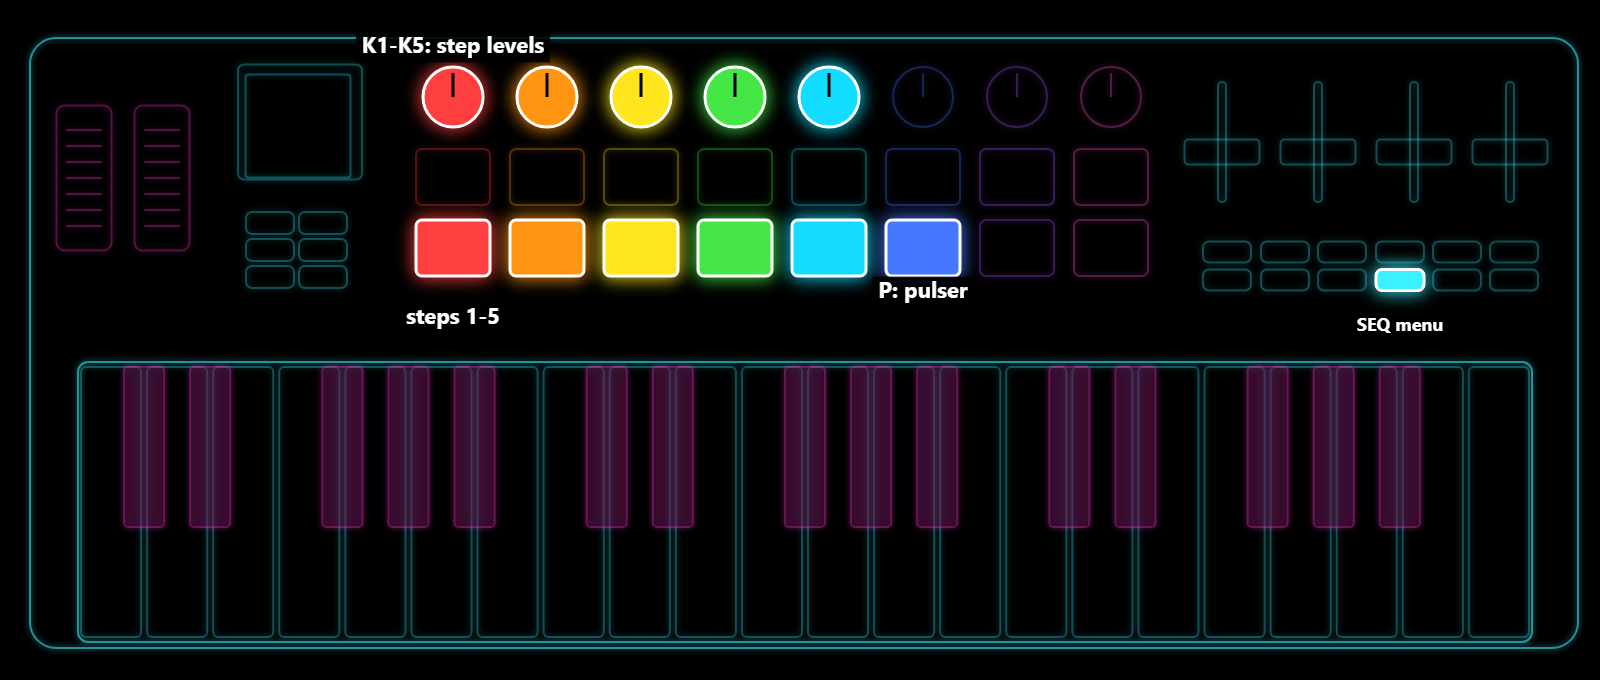
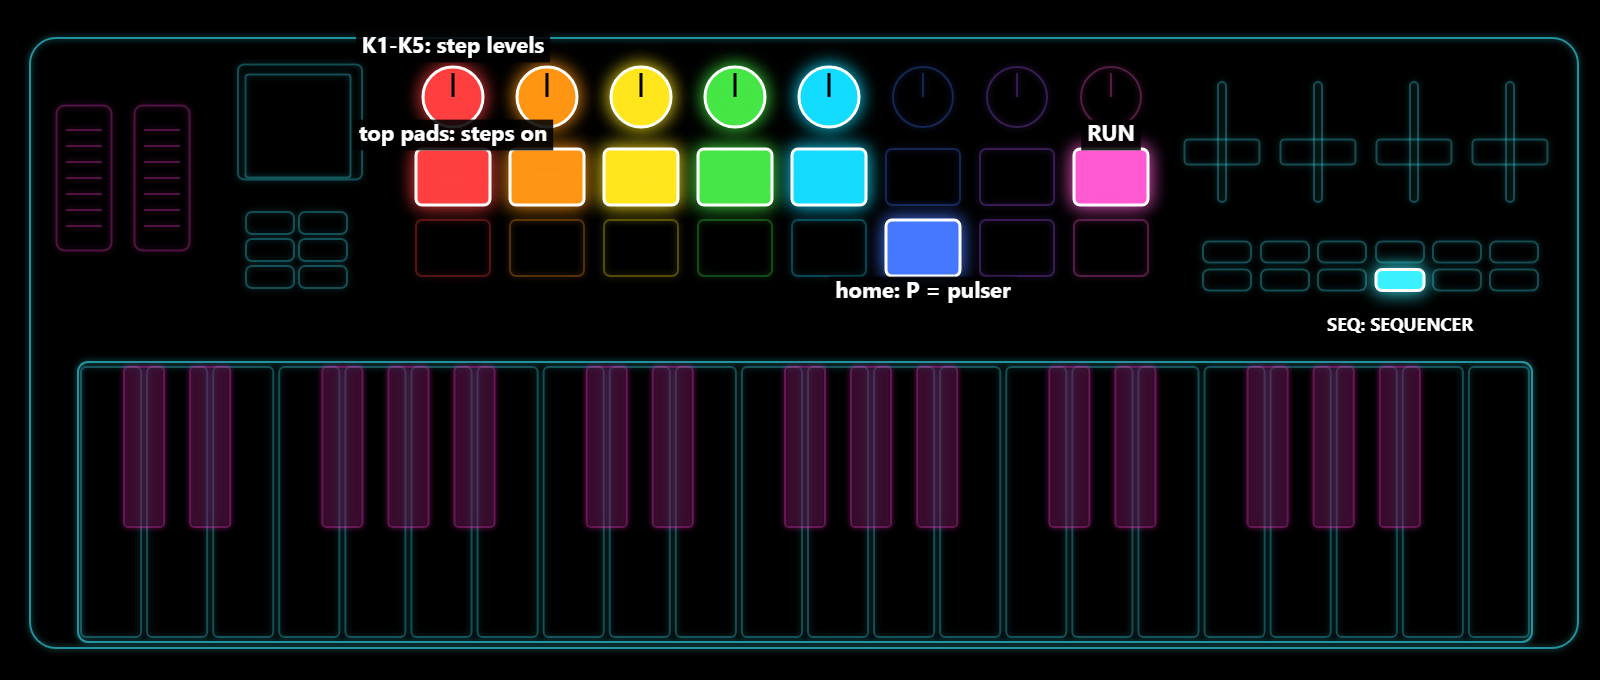
Docs: guide for one logic, control map from the menu table, new screenshots

Changed region(s): [[0.2188, 0.1544, 0.625, 0.4941], [0.6562, 0.1853, 0.75, 0.3397], [0.8125, 0.4632, 0.9375, 0.4941]]

diff --git a/tools/panel.html b/tools/panel.html
@@ -35,18 +35,20 @@ add("keys", "keys", 805, 602, 1454, 280, CY, "KEYS");
 
 /* the lessons: the controls lit, and what to call them */
 const L = {
-  1: { patch: "PATCH: PRESETS", p1: "pads: a preset", kb: "KNOB BANK: home", screen: "" },
+  1: { kb: "KNOB BANK: PRESETS", p1: "pads: a preset", left: "< > theme", right: "", patch: "PATCH: home", screen: "" },
   2: { k1: "K1-K8: pitch", k2: "", k3: "", k4: "", k5: "", k6: "", k7: "", k8: "", p1: "top pads: wake / sleep", p2: "", p3: "",
        p4: "", p5: "", p6: "", p7: "", p8: "", screen: "" },
-  3: { f1: "F1 CUTOFF", f2: "F2 RESO", f3: "F3 LFO RATE", f4: "F4 LFO DEPTH", fb: "FADER BANK", mod: "MOD", pitch: "PITCH" },
-  4: { para: "VOICE", chord: "ENV", repeat: "MOD", globe: "MIX", scale: "TUNING", bt: "LFO", fx: "FX", arp: "KEYS", seq: "SEQ",
-       left: "< > pages", right: "", kb: "home", k1: "K1-K8: the column's value", k2: "", k3: "", k4: "", k5: "", k6: "", k7: "", k8: "" },
+  3: { f1: "F1 CUTOFF", f2: "F2 RESONANCE", f3: "F3 MOVEMENT", f4: "F4 SPACE", fb: "FADER BANK: FX on / off", mod: "MOD",
+       pitch: "PITCH" },
+  4: { para: "SOUND", chord: "ENVELOPE", repeat: "MOTION", globe: "MIX", scale: "TUNING", fx: "EFFECTS", arp: "KEYS",
+       seq: "SEQUENCER", left: "< > pages", right: "", patch: "PATCH: home", k1: "K1-K8: column 1-8", k2: "", k3: "", k4: "",
+       k5: "", k6: "", k7: "", k8: "", p1: "pads: two choices", p9: "" },
   5: { play: "SEQ PLAY: FREE-PLAY", rec: "SEQ REC: HOLD", keys: "keys wake the drones", octdn: "OCT - +", octup: "" },
-  6: { p9: "steps 1-5", p10: "", p11: "", p12: "", p13: "", p14: "P: pulser", seq: "SEQ menu", k1: "K1-K5: step levels", k2: "", k3: "", k4: "", k5: "" },
-  7: { p16: "C: CHAOS", p15: "H: HOLD ALL", chord: "ENV: GATE = CASCADE", seq: "SEQ: MOTION", p1: "top pads", p2: "" },
-  8: { patch: "PATCH: PRESETS (held: SETUP)", left: "< > theme", right: "", k1: "K1-K8: slot", k2: "", k3: "", k4: "", k5: "", k6: "", k7: "",
-       k8: "", p1: "pads: a preset", p2: "", p3: "", p4: "", p5: "", p6: "", p7: "", p8: "", p9: "", p10: "", p11: "", p12: "", p13: "",
-       p14: "", p15: "", p16: "" },
+  6: { seq: "SEQ: SEQUENCER", k1: "K1-K5: step levels", k2: "", k3: "", k4: "", k5: "", p1: "top pads: steps on", p2: "",
+       p3: "", p4: "", p5: "", p8: "RUN", p14: "home: P = pulser" },
+  7: { p16: "C: CHAOS", p15: "H: HOLD ALL", chord: "ENVELOPE: GATE = CASCADE", seq: "SEQ page 2: LOOP", p1: "top pads", p2: "" },
+  8: { kb: "KNOB BANK: PRESETS", left: "> to MINE", right: "", p1: "MINE: hold 1 s = save", p2: "", p3: "", p4: "", p5: "",
+       p6: "", p7: "", p8: "", p9: "", p10: "", p11: "", p12: "", p13: "", p14: "", p15: "red: cancel", p16: "green: OK" },
 };
 const q = new URLSearchParams(location.search).get("l") || "map";
 const MAP = q === "map", HL = MAP ? {} : L[q] || {};

diff --git a/docs/GUIDE.md b/docs/GUIDE.md
@@ -2,9 +2,13 @@
 
 Eight lessons, about five minutes each. Do the step and listen.
 
-Lost at any point? Tap **KNOB BANK** to go back to the creatures. Hold **KNOB BANK** for HELP.
+Two buttons are always there for you: **KNOB BANK** shows the presets, **PATCH** takes you home to the
+creatures. Hold **KNOB BANK** for HELP.
 
 ![The controls](img/panel-map.png)
+
+Every menu works the same way: its button opens it at page 1, **< >** turn the pages, knob **K1-K8** sets
+column 1-8, and a setting with two choices sits on the column's pads. The full map: [CONTROLS.md](CONTROLS.md).
 
 ---
 
@@ -14,12 +18,11 @@ Lost at any point? Tap **KNOB BANK** to go back to the creatures. Hold **KNOB BA
 
 <img src="img/screen-presets-1.png" width="240" alt="PRESETS screen">
 
-1. Switch on. You see the boot scene, then **PRESETS**.
+1. Switch on. After the boot scene you see **PRESETS**.
 2. Tap any **pad**. You hear that preset straight away. The pad you are hearing is white.
-3. Tap a few other pads.
-4. Press **<** or **>** to change the theme: DRONES, ABRAXAS, NATURE, SCI-FI, ORGAN, PULSE.
-5. Tap **KNOB BANK**. You see the creatures. The awake ones are singing.
-6. **PATCH** takes you back to PRESETS.
+3. Press **<** or **>** to change the theme: DRONES, ABRAXAS, NATURE, SCI-FI, ORGAN, PULSE, MINE.
+4. Press **PATCH**. You see the creatures. The awake ones are singing.
+5. Press **KNOB BANK** to come back to the presets.
 
 ## 2. Tuning the creatures
 
@@ -27,25 +30,25 @@ Lost at any point? Tap **KNOB BANK** to go back to the creatures. Hold **KNOB BA
 
 <img src="img/screen-home-pitch.png" width="240" alt="Home screen, a voice retuned">
 
-1. On the creatures screen, each column is one drone: knob above, creature and note in the middle, pads below.
+1. On the creatures screen, each column is one drone: knob above, creature and note in the middle, pad below.
 2. Tap **top pad 3**. Creature 3 wakes up and sings.
 3. Tap it again. It falls asleep.
 4. **Hold** top pad 3 instead. It sings only while you hold it.
 5. Turn **K1**. Drone 1 moves up or down the scale. The note under creature 1 changes.
-6. Turn the other knobs. Each one tunes its own column.
+6. On the creatures screen, **< >** step to the previous or next preset.
 
-## 3. Faders and the mod wheel
+## 3. Faders and wheels
 
 ![Lesson 3 controls](img/panel-3.png)
 
 <img src="img/screen-fader.png" width="240" alt="A fader's value">
 
 1. Move **F1** (CUTOFF) slowly down. The sound gets darker. Its value shows big on the screen.
-2. Raise **F2** (RESO). The filter starts to sing.
-3. Raise **F4** (LFO DEPTH), then move **F3** (LFO RATE). The filter sweeps on its own.
-4. Push the **MOD** wheel up. The filter closes and the resonance rises.
-5. Move the **PITCH** wheel. Everything bends, then springs back.
-6. Press **FADER BANK**. Now the faders are FX L, FX R, SPACE and TAPE. Press it again for the filter.
+2. Raise **F2** (RESONANCE). The filter starts to sing.
+3. Raise **F3** (MOVEMENT). The filter sweeps on its own.
+4. Raise **F4** (SPACE). More reverb.
+5. Push the **MOD** wheel up. The filter closes. Move the **PITCH** wheel: everything bends, then springs back.
+6. Press **FADER BANK**. The effects switch off. Press it again: on.
 
 The faders always win: where a fader stands is what you hear, even after loading a preset.
 
@@ -53,15 +56,16 @@ The faders always win: where a fader stands is what you hear, even after loading
 
 ![Lesson 4 controls](img/panel-4.png)
 
-<img src="img/screen-menu-env-1.png" width="240" alt="ENV menu, ATTACK page">
+<img src="img/screen-menu-envelope-1.png" width="240" alt="ENVELOPE menu, ATTACK page">
 
-1. Press **CHORD**. You see ENV, page ATTACK, with one bar per drone.
-2. Turn **K1**. Drone 1's attack changes. Every knob sets the bar under it.
-3. Press **>**. Next page: RELEASE. Press **<** to go back.
-4. Where a setting has only two choices, the column's **pads** set it: top pad = one, bottom pad = the other.
-5. Press **CHORD** again (or KNOB BANK) to go home.
-6. Try the other menus: **PARA** VOICE, **NOTE REPEAT** MOD, **GLOBE** MIX, **SCALE** TUNING, **BT** LFO,
-   **FX** FX, **ARP** KEYS, **SEQ** SEQ.
+1. Press **CHORD**. You see ENVELOPE 1/6, page ATTACK, one bar per drone.
+2. Turn **K1**. Drone 1's attack changes.
+3. Press **>**. Page 2/6: RELEASE. Press **<** to go back.
+4. Press **CHORD** again, or **PATCH**, to go home.
+5. Try the other menus: **PARA** SOUND, **NOTE REPEAT** MOTION, **SCALE** TUNING, **FX** EFFECTS,
+   **SEQ** SEQUENCER, **ARP** KEYS, **GLOBE** MIX.
+6. In **PARA**, page VOICE 1: K1-K5 tune the five oscillators. The top pads switch each one on or off,
+   the bottom pads switch its modulation.
 
 ## 5. Free-play and hold
 
@@ -81,42 +85,42 @@ The faders always win: where a fader stands is what you hear, even after loading
 
 ![Lesson 6 controls](img/panel-6.png)
 
-<img src="img/screen-menu-seq-1.png" width="240" alt="SEQ menu">
+<img src="img/screen-menu-sequencer-1.png" width="240" alt="SEQUENCER menu">
 
-1. Open PRESETS, theme PULSE, and tap **MOTORIK**. It is already running.
-2. Tap **P** (bottom pad 6) in rhythm. The tempo follows your taps.
+1. Press **KNOB BANK**, go to the theme PULSE and tap **MOTORIK**. It is already running.
+2. Press **PATCH**. On the creatures screen, tap **P** (bottom pad 6) in rhythm. The tempo follows your taps.
 3. Hold **P**. The pulser stops. Tap it to start again.
-4. Tap the **bottom pads 1-5**. Each one switches a step on or off. The playing step is white.
-5. Press **SEQ**. Turn **K1-K5** to set the five step levels.
+4. Press **SEQ**. Turn **K1-K5** to set the five step levels.
+5. Tap the **top pads 1-5**. Each one switches a step on or off. The playing step is white.
+6. Pad 8 is RUN: top on, bottom off.
 
-## 7. Chaos, cascade, motion
+## 7. Chaos, cascade, loop
 
 ![Lesson 7 controls](img/panel-7.png)
 
 <img src="img/screen-chaos.png" width="240" alt="CHAOS">
 
-1. Tap **C** (bottom right). All classic drones get new notes, still inside the scale.
+1. On the creatures screen, tap **C** (bottom right). All classic drones get new notes, still in the scale.
 2. Hold **C** and tap **top pad 2**. Only drone 2 changes.
 3. Tap **H**. Everything that sounds now stays on. Tap **H** again: all off.
-4. Press **CHORD**, then **>** to the GATE page. Turn K2 and K3 to CASCADE.
-   Go home and wake drone 1. Drones 2 and 3 follow, one after the other.
-5. Press **SEQ**, then **>** to MOTION. Turn **K1** right: it records. Tap pads, turn knobs.
-   Turn K1 right again: it loops what you did. Again: it stops.
+4. Press **CHORD**, then **>** to GATE. Turn K2 and K3 to CASCADE. Go home and wake drone 1.
+   Drones 2 and 3 follow, one after the other.
+5. Press **SEQ**, then **>** to LOOP. Tap **top pad 1**: it records. Go home, tap pads, turn knobs.
+   Back in SEQ, LOOP: top pad 1 again plays it in a loop, again stops it.
 
-## 8. Presets and scenes
+## 8. Your own presets
 
 ![Lesson 8 controls](img/panel-8.png)
 
-<img src="img/screen-menu-presets-3.png" width="240" alt="PRESETS, SAVE page">
+<img src="img/screen-presets-7.png" width="240" alt="PRESETS, theme MINE">
 
-1. Press **PATCH**. Tap pads to pick a sound. Use **<** **>** for the themes.
-2. Press **>** past the last theme (PULSE). You reach LOAD, then SAVE, then MORPH. One more **>** brings
-   you back to the first theme.
-3. **SAVE**: turn a slot's knob (K1-K8). An empty slot saves at once. A used slot asks first: green pad OK, red pad
-   cancel.
-4. **LOAD**: turn a slot's knob. That scene loads.
-5. **MORPH**: turn a slot's knob slowly. Your sound glides into that scene.
-6. Hold **PATCH** for SETUP: pad light, USB console, OUTPUT LINE or SPEAKER.
+1. Make a sound you like.
+2. Press **KNOB BANK**, then **<** or **>** until the theme **MINE**: 16 places for your sounds.
+3. **Hold** a dark pad for one second. Your sound is saved there.
+4. Hold a lit pad: the screen asks first. **Green** pad (bottom right) = replace, **red** = cancel.
+5. Tap a lit pad to load your sound.
+6. Hold **PATCH** for SETUP: pad light, USB console, output LINE or SPEAKER, master volume, analog drift,
+   width, tape.
 
 ---
 
@@ -124,12 +128,12 @@ The faders always win: where a fader stands is what you hear, even after loading
 
 | | | |
 |---|---|---|
-| ![](img/screen-home.png) home | ![](img/screen-presets-2.png) PRESETS | ![](img/screen-dialog-save.png) SAVE over a used slot |
-| ![](img/screen-menu-voice-1.png) VOICE: WAVE | ![](img/screen-menu-voice-2.png) VOICE 1 | ![](img/screen-menu-voice-4.png) VOICE 3 (noise) |
-| ![](img/screen-menu-voice-5.png) VOICE 4 (VCO) | ![](img/screen-menu-mod-7.png) MOD: DETUNE | ![](img/screen-menu-mix-1.png) MIX: VOLUME |
-| ![](img/screen-menu-fx-1.png) FX: FILTER | ![](img/screen-menu-fx-2.png) FX: L / R | ![](img/screen-menu-tuning-1.png) TUNING |
-| ![](img/screen-menu-lfo-1.png) LFO | ![](img/screen-menu-keys-1.png) KEYS | ![](img/screen-menu-setup-1.png) SETUP |
-| ![](img/screen-help-1.png) HELP: pads | ![](img/screen-help-3.png) HELP: buttons | ![](img/screen-help-6.png) HELP: faders |
+| ![](img/screen-home.png) home | ![](img/screen-presets-2.png) PRESETS | ![](img/screen-dialog-save.png) replace a saved one |
+| ![](img/screen-menu-sound-1.png) SOUND: WAVE | ![](img/screen-menu-sound-2.png) SOUND: VOICE 1 | ![](img/screen-menu-sound-4.png) SOUND: VOICE 3 (noise) |
+| ![](img/screen-menu-sound-5.png) SOUND: VOICE 4 (VCO) | ![](img/screen-menu-motion-1.png) MOTION: DETUNE | ![](img/screen-menu-mix-1.png) MIX: VOLUME |
+| ![](img/screen-menu-effects-1.png) EFFECTS | ![](img/screen-menu-effects-2.png) EFFECTS: FILTER | ![](img/screen-menu-tuning-1.png) TUNING |
+| ![](img/screen-menu-motion-8.png) MOTION: LFO | ![](img/screen-menu-keys-1.png) KEYS | ![](img/screen-menu-setup-1.png) SETUP |
+| ![](img/screen-help-1.png) HELP: pads | ![](img/screen-help-3.png) HELP: menus | ![](img/screen-help-6.png) HELP: faders |
 
 ## Update mode
 

diff --git a/docs/CONTROLS.md b/docs/CONTROLS.md
@@ -1,0 +1,48 @@
+# Makkuro37: control map
+
+Generated from the firmware's menu table (tools/docs_img.sh). On every page knob Ki sets column i; a value with two choices sits on the column's pads.
+
+| Button | Menu | Page | K1 | K2 | K3 | K4 | K5 | K6 | K7 | K8 |
+|---|---|---|---|---|---|---|---|---|---|---|
+| PARA | SOUND | WAVE | WAVE | WAVE | WAVE | WAVE | WAVE | WAVE | WAVE | WAVE |
+|  |  | VOICE 1 | TUNE 1 (pads: on, mod) | TUNE 2 (pads: on, mod) | TUNE 3 (pads: on, mod) | TUNE 4 (pads: on, mod) | TUNE 5 (pads: on, mod) | VOLT |  |  |
+|  |  | VOICE 2 | TUNE 1 (pads: on, mod) | TUNE 2 (pads: on, mod) | TUNE 3 (pads: on, mod) | TUNE 4 (pads: on, mod) | TUNE 5 (pads: on, mod) | VOLT |  |  |
+|  |  | VOICE 3 | PITCH | RANGE (pads) | RATE | RATE X (pads) | FM AMT | DIVIDER | MODE | NOISE |
+|  |  | VOICE 4 | WAVE | SHAPE | OCTAVE | TUNE | FM |  | SUB |  |
+|  |  | VOICE 5 | WAVE | SHAPE | OCTAVE | TUNE | FM | SYNC (pads) | SUB |  |
+|  |  | VOICE 6 | TUNE 1 (pads: on, mod) | TUNE 2 (pads: on, mod) | TUNE 3 (pads: on, mod) | TUNE 4 (pads: on, mod) | TUNE 5 (pads: on, mod) | VOLT |  |  |
+|  |  | VOICE 7 | TUNE 1 (pads: on, mod) | TUNE 2 (pads: on, mod) | TUNE 3 (pads: on, mod) | TUNE 4 (pads: on, mod) | TUNE 5 (pads: on, mod) | VOLT |  |  |
+|  |  | VOICE 8 | PITCH | RANGE (pads) | RATE | RATE X (pads) | FM AMT | DIVIDER | MODE | NOISE |
+| CHORD | ENVELOPE | ATTACK | ATTACK | ATTACK | ATTACK | ATTACK | ATTACK | ATTACK | ATTACK | ATTACK |
+|  |  | RELEASE | RELEASE | RELEASE | RELEASE | RELEASE | RELEASE | RELEASE | RELEASE | RELEASE |
+|  |  | GATE | GATE | GATE | GATE | GATE | GATE | GATE | GATE | GATE |
+|  |  | DECAY |  |  |  | DECAY | DECAY |  |  |  |
+|  |  | SUSTAIN |  |  |  | SUSTAIN | SUSTAIN |  |  |  |
+|  |  | VCO EG |  |  |  | EG | EG |  |  |  |
+| REPEAT | MOTION | DETUNE | DETUNE (pad: RATE) | DETUNE (pad: RATE) | DETUNE (pad: RATE) | DETUNE (pad: RATE) | DETUNE (pad: RATE) | DETUNE (pad: RATE) | DETUNE (pad: RATE) | DETUNE (pad: RATE) |
+|  |  | MOD SRC | MOD SRC | MOD SRC | MOD SRC | MOD SRC | MOD SRC | MOD SRC | MOD SRC | MOD SRC |
+|  |  | MOD AMT | MOD AMT | MOD AMT | MOD AMT | MOD AMT | MOD AMT | MOD AMT | MOD AMT | MOD AMT |
+|  |  | SUB | SUB | SUB |  | SUB | SUB | SUB | SUB |  |
+|  |  | SUB DIV | SUB DIV | SUB DIV |  |  |  | SUB DIV | SUB DIV |  |
+|  |  | S&H AMT |  |  | S&H AMT |  |  |  |  | S&H AMT |
+|  |  | S&H CLK |  |  | S&H CLK |  |  |  |  | S&H CLK |
+|  |  | LFO | A RATE | A WAVE | B RATE | B WAVE | FMOD RATE |  |  |  |
+| SCALE | TUNING | TUNING | TUNING | ROOT | SNAP (pads) | FINE |  |  |  |  |
+| FX | EFFECTS | FX L  R | FX L | L X | L Y | L Z | FX R | R X | R Y | R Z |
+|  |  | FILTER | FILTER | DRIVE | CV SRC | CV AMT |  |  |  |  |
+| SEQ | SEQUENCER | STEPS | STEP 1 (pad: on) | STEP 2 (pad: on) | STEP 3 (pad: on) | STEP 4 (pad: on) | STEP 5 (pad: on) | STAGES | PULSER | RUN (pads) |
+|  |  | LOOP | LOOP (pads) |  |  |  |  |  |  |  |
+| ARP | KEYS | KEYS | KEYS | ARP | RATE | OCTAVES | LATCH (pads) | GLIDE | VIBRATO | VIB RATE |
+|  |  | STEP REC | STEP REC (pads) |  |  |  |  |  |  |  |
+| GLOBE | MIX | VOLUME | VOLUME | VOLUME | VOLUME | VOLUME | VOLUME | VOLUME | VOLUME | VOLUME |
+|  |  | PAN | PAN | PAN | PAN | PAN | PAN | PAN | PAN | PAN |
+|  |  | TONE | TONE | TONE | TONE | TONE | TONE | TONE | TONE | TONE |
+| PATCH+ | SETUP | SETUP | LIGHT | CONSOLE (pads) | OUTPUT (pads) | MASTER | ANALOG | WIDTH | TAPE |  |
+|  |  | JOYSTICK | X OFFS | Y OFFS |  |  |  |  |  |  |
+
+| Fader | |
+|---|---|
+| F1 | CUTOFF |
+| F2 | RESONANCE |
+| F3 | MOVEMENT |
+| F4 | SPACE |

diff --git a/README.md b/README.md
@@ -3,9 +3,10 @@
 ![Makkuro37](docs/img/hero.png)
 
 **A microtonal drone synth for the M-Vave SMK-37 Pro.**
-Eight drones in eight columns, each a little soot creature on the screen, with 96 presets in six themes.
+Eight drones in eight columns, each a little soot creature on the screen. 96 presets in six themes, 16 places for
+your own. One logic for every menu: a button opens it, K1-K8 set the eight columns, < > turn the pages.
 
-[Guide](docs/GUIDE.md) · [Web installer](#install) · [Simulator](web/sim/)
+[Guide](docs/GUIDE.md) · [Control map](docs/CONTROLS.md) · [Web installer](#install) · [Simulator](web/sim/)
 
 ## Install
 
